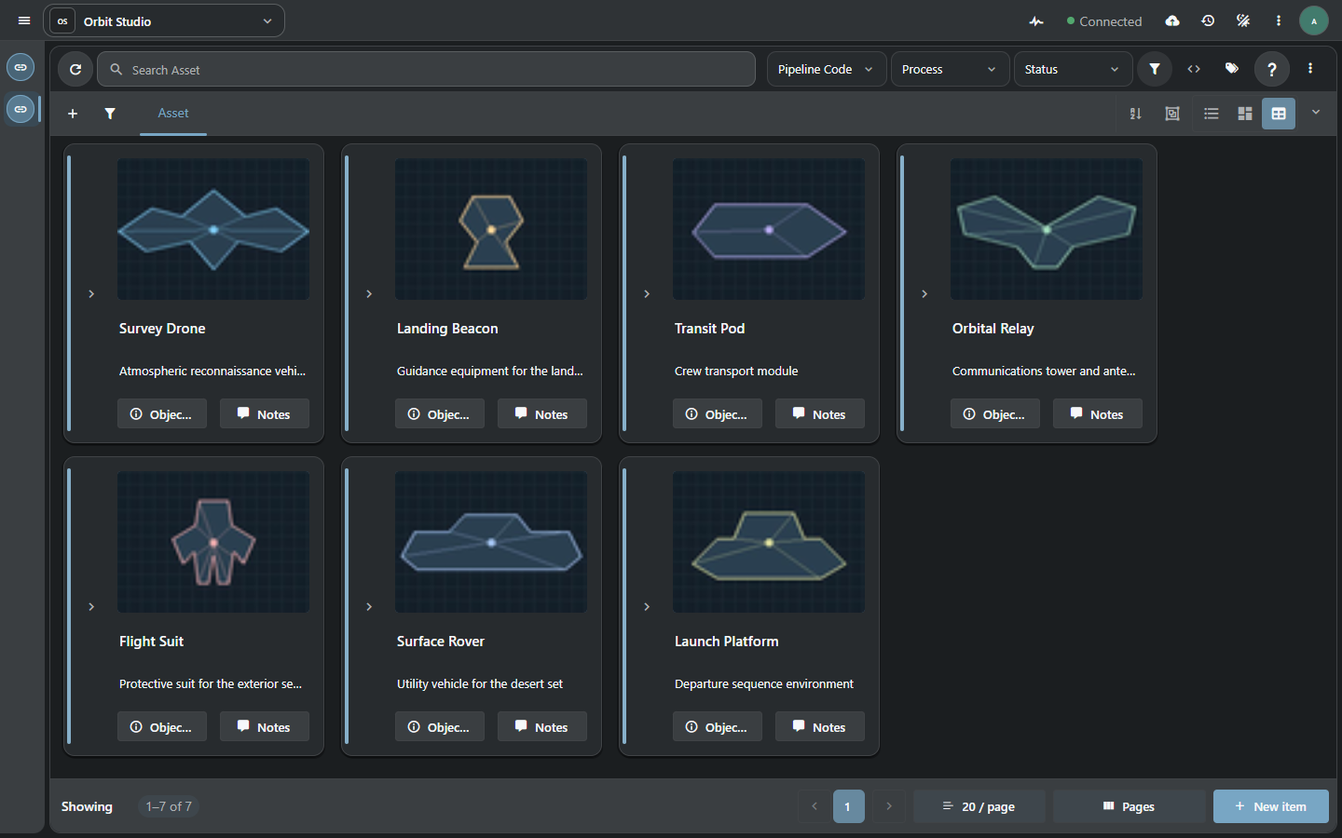
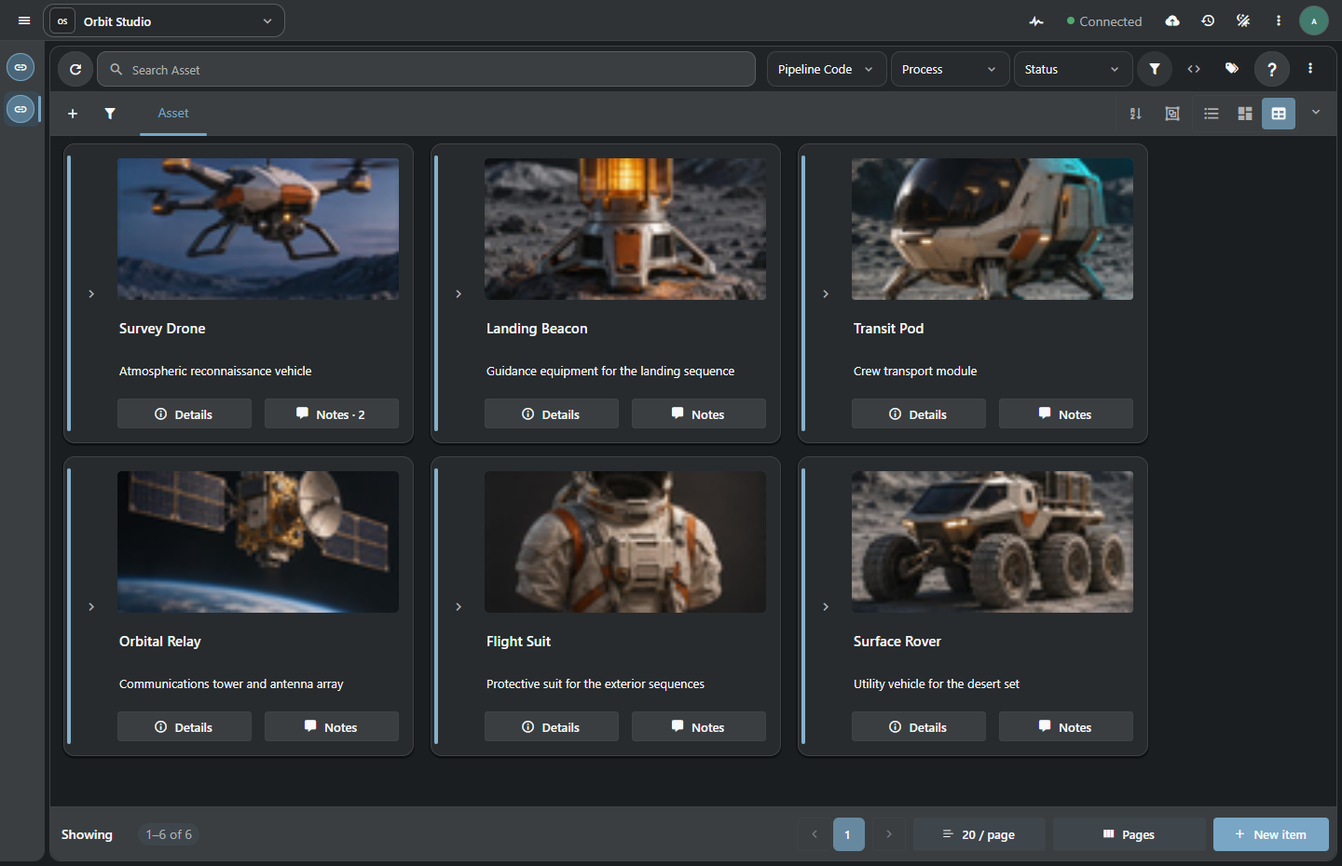
Show the Stream production workspace and deployment model

diff --git a/README.ru.md b/README.ru.md
@@ -1,44 +1,59 @@
 # TACTIC Stream
 
-[English](README.md) · **Русский** · [Документация](tactic_stream/docs/index.md)
+**Сервер TACTIC и веб-пространство для производства ассетов и шотов.** Опишите данные проекта, соберите представления для команды и ведите задачи, ревью и публикации на одних и тех же серверных записях.
 
-**Сервер TACTIC для самостоятельного развёртывания и рабочее пространство в браузере.**
-Создавайте Item View для ассетов, шотов и других записей проекта. Ведите задачи
-и публикации, настраивайте схемы, пайплайны и права в веб-интерфейсе на Vue
-с ядром TACTIC на Python.
+[English](README.md) · [Локальный запуск](#локальный-запуск) · [Развёртывание](#развёртывание-и-восстановление) · [API сервера](#api-сервера) · [Документация](tactic_stream/docs/index.md)
 
-Stream использует SQLite для локального запуска и PostgreSQL для серверного
-развёртывания. Отдельный настольный клиент **TACTIC-Handler** может подключаться
-к Stream для работы с локальными файлами и Maya.
+![Настроенный Item View в TACTIC Stream с шестью ассетами и превью проекта Orbit Studio](tactic_stream/docs/assets/github-item-view.png)
 
-> **Прототип в разработке.** Perforce-like workspace и просмотр его данных
-> в браузере — отдельный незавершённый прототип.
+*Orbit Studio в браузере. В каждом Item View превью, название, описание и действия привязаны к данным ассета.*
 
-![Настроенный Item View проекта Orbit Studio в TACTIC Stream](tactic_stream/docs/assets/github-item-view.png)
+> **Прототип в разработке.** Начните с изолированного проекта. Perforce-like workspace и его инструменты просмотра в браузере — отдельный прототип.
 
-## Item View
+## От модели проекта к рабочему пространству
 
-Создавайте именованные раскладки карточек и строк для каждого Search Type.
-Размещайте превью, поля объекта и действия для открытия деталей или заметок.
-Проверьте раскладку на данных проекта, сохраните её как представление
-и переиспользуйте в блоках дашборда.
-[Руководство по раскладкам объектов](tactic_stream/frontend/public/help/item_layouts.ru.md) · [Скриншот таблицы](tactic_stream/docs/assets/github-workspace.png)
+**Search Type** определяет записи, схема — их связи, а пайплайны и процессы — работу над ними. На этой модели строятся представления для художников, координаторов и администраторов. Идентификаторы, права и правила публикации хранит сервер.
 
-## Возможности
+### Соберите Item View
 
-- **Ведение проектов.** Поиск объектов, планирование задач, заметки и просмотр
-  снапшотов в браузере.
-- **Администрирование.** Типы объектов, пайплайны, раскладки, права доступа
-  и ресурсы проектов.
-- **Публикация и файлы.** Серверные операции с публикациями и репозиториями.
-  Просмотр депо и списков изменений входит в Perforce-like прототип.
-- **Интеграции.** Справка API работающего сервера и модель проектов, SearchType,
-  SObject и команд TACTIC.
+Откройте **Администрирование → Раскладки объектов**. Выберите Search Type и соберите именованную карточку или строку. Привяжите превью и поля к данным записи, добавьте действия и проверьте раскладку на объектах проекта. Сохранённый вид можно переиспользовать в блоке дашборда.
 
-## Локальный запуск на Windows
+![Редактор раскладок объектов TACTIC Stream со списком элементов, предпросмотром и свойствами](tactic_stream/docs/assets/github-layout-editor.png)
 
-Выполните команды из корня рабочей копии. Понадобятся Python 3.14 и чистый
-локальный каталог данных.
+*Редактор показывает черновик на реальных данных проекта. Сохранение публикует конфигурацию для выбранного Search Type.*
+
+[Руководство по Item Layouts](tactic_stream/frontend/public/help/item_layouts.ru.md) · [Табличный вид](tactic_stream/docs/assets/github-workspace.png)
+
+### Работайте с сохранённым представлением
+
+Карточка может вести к деталям объекта, его задачам, заметкам и связанным записям. Те же данные доступны в таблице для редактирования, на дашборде для координации и в менеджере задач для планирования. Администратор определяет, какие представления появятся в навигации.
+
+![Детали ассета Survey Drone поверх настроенного Item View](tactic_stream/docs/assets/github-record.png)
+
+[Задачи и планирование](tactic_stream/frontend/public/help/tasks.ru.md) · [Администрирование](tactic_stream/frontend/public/help/administration.ru.md) · [Пример дашборда Workspace Pulse](examples/workspace_pulse/README.ru.md)
+
+### Публикуйте и проверяйте версии
+
+Загрузите файлы через браузерный check-in и проверьте снапшоты. Права, правила именования и репозиторий задаются проектом TACTIC. Для работы с локальными путями, синхронизацией файлов и Maya подключите к тому же серверу отдельный клиент **TACTIC-Handler**.
+
+[Snapshot Browser](tactic_stream/frontend/public/help/dock.snapshot.ru.md) · [Подключение Handler](tactic_stream/docs/delivery/HANDLER_DEPLOYMENT.md)
+
+## Как устроена система
+
+```mermaid
+flowchart LR
+    Web["Веб-клиент Vue"] <-->|HTTP API| Stream["TACTIC Stream"]
+    Handler["Настольный TACTIC-Handler"] <-->|TACTIC API| Stream
+    Stream <--> Core["TACTIC Search, SObject и команды"]
+    Core <--> Data["SQLite или PostgreSQL"]
+    Core <--> Files["Файловый репозиторий"]
+```
+
+Ядро Python сохраняет нативную модель `Search`, `SObject`, схем, пайплайнов и команд TACTIC. Браузер ведёт взаимодействие и черновики. Stream и Handler поставляются независимо и отображают общие описания **Tactic Frame** своими контролами Vue и Qt Quick. [Архитектура](tactic_stream/docs/architecture.md) · [Контракт Frame](tactic_stream/docs/frame/contract.md)
+
+## Локальный запуск
+
+Выполните команды из корня исходного репозитория на Windows. Для первого запуска используйте новый каталог данных и Python 3.14.
 
 ```powershell
 Set-Location tactic_stream
@@ -47,27 +62,42 @@ py -3.14 -m venv .venv
 ..\START_TACTIC_STREAM.bat
 ```
 
-При первом запуске программа инициализирует SQLite, предлагает задать пароль
-администратора и открывает настроенный локальный адрес. Готовый веб-интерфейс
-входит в комплект. [Подробности запуска и CLI](tactic_stream/README.md#local-development)
+При первом запуске скрипт инициализирует SQLite, предложит создать пароль администратора и откроет настроенный адрес. Веб-интерфейс уже собран в исходном дереве. [CLI и среда разработки](tactic_stream/README.md#local-development)
 
-Перед запуском новой версии с существующими данными сделайте резервную копию.
-Скрипт обновляет схему перед стартом сервера. [Резервное копирование и восстановление](tactic_stream/docs/delivery/RECOVERY_ACCEPTANCE.md)
+## Развёртывание и восстановление
 
-## Развёртывание и документация
+| Режим | Состав | Как запустить |
+| --- | --- | --- |
+| Локально из исходников | Python, собранный веб-интерфейс, SQLite | [Настройка среды](tactic_stream/README.md#local-development) |
+| Портативная Windows-сборка | Десктопный лаунчер, Python и веб-клиент, SQLite и Handler | [Поставка для Windows](tactic_stream/docs/delivery/WINDOWS_DELIVERY.ru.md) |
+| Отдельный Linux-сервер | Stream за Apache, PostgreSQL и Docker Compose | [Серверная поставка](tactic_stream/docs/delivery/SERVER_DELIVERY.ru.md) |
 
-| Задача | Где начать |
+Перед обновлением сохраните вместе базу, файловый репозиторий и конфигурацию. Для отката нужны прежняя сборка и соответствующая копия данных. [Резервное копирование и восстановление](tactic_stream/docs/delivery/RECOVERY_ACCEPTANCE.md)
+
+## API сервера
+
+На запущенном сервере `/api/documentation` описывает методы, а `/api/compatibility` — границы совместимости с оригинальным TACTIC. Встроенный клиент Python выполняет запросы через XML-RPC. Пример ниже читает записи демопроекта и запрашивает пароль локально.
+
+```python
+from getpass import getpass
+from tactic_client_lib import TacticServerStub
+
+server = TacticServerStub(setup=False, protocol="xmlrpc")
+server.set_server("http://127.0.0.1:8081")
+server.set_project("orbit")
+server.set_ticket(server.get_ticket(input("Login: "), getpass("Password: ")))
+
+for asset in server.query("orbit/asset", columns=["code", "name"], limit=12):
+    print(asset["code"], asset["name"])
+```
+
+Укажите адрес сервера, проект и Search Type вашей установки. Проверяйте сценарии на тех схемах и плагинах, с которыми собираетесь работать. [Карта серверного API](tactic_stream/docs/admin_agent/SOURCES.md#ts-server-api) · [Совместимость](tactic_stream/docs/compatibility.md) · [Модель данных](tactic_stream/frontend/public/help/core_model.ru.md)
+
+| Что дальше | Документация |
 | --- | --- |
-| Попробовать портативную сборку | [Поставка для Windows](tactic_stream/docs/delivery/WINDOWS_DELIVERY.ru.md) |
-| Запустить отдельный сервер PostgreSQL | [Серверная поставка с Docker Compose](tactic_stream/docs/delivery/SERVER_DELIVERY.ru.md) |
-| Обновить или восстановить установку | [Резервное копирование и восстановление](tactic_stream/docs/delivery/RECOVERY_ACCEPTANCE.md) |
-| Сделать интеграцию | [Карта API сервера](tactic_stream/docs/admin_agent/SOURCES.md#ts-server-api) · [Совместимость](tactic_stream/docs/compatibility.md) |
-| Посмотреть примеры плагинов | [Workspace Pulse](examples/workspace_pulse/README.ru.md) · [Studio Review](examples/studio_review/README.ru.md) |
-| Работать с исходным кодом | [Среда разработки](tactic_stream/README.md) · [Архитектура](tactic_stream/docs/architecture.md) |
-
-Проверяйте совместимость со схемами, плагинами и
-сценариями вашей установки. Работающий сервер публикует справку по адресам
-`/api/documentation` и `/api/compatibility`.
+| Создать раскладку, дашборд или расширение | [Item Layouts](tactic_stream/frontend/public/help/item_layouts.ru.md) · [Workspace Pulse](examples/workspace_pulse/README.ru.md) · [Studio Review](examples/studio_review/README.ru.md) |
+| Разрабатывать сервер или веб-клиент | [README приложения](tactic_stream/README.md) · [Архитектура](tactic_stream/docs/architecture.md) |
+| Проверить развёртывание | [Документация поставки](tactic_stream/docs/delivery/index.md) · [Приёмка восстановления](tactic_stream/docs/delivery/RECOVERY_ACCEPTANCE.md) |
 
 ## Лицензионные уведомления
 

diff --git a/README.md b/README.md
@@ -1,41 +1,59 @@
 # TACTIC Stream
 
-**English** · [Русский](README.ru.md) · [Documentation](tactic_stream/docs/index.md)
+**Self-hosted TACTIC server and web workspace for asset and shot production.** Define what a project tracks, design how each record appears, and run tasks, review, and publishing against the same server-owned records.
 
-**Self-hosted TACTIC server and browser workspace.** Build Item Views for
-assets, shots, and other project records. Track tasks and publications and
-configure project schemas, pipelines, and access rules from the Vue interface.
+[Русский](README.ru.md) · [Run locally](#run-locally) · [Server deployment](#deployment-and-recovery) · [Server API](#server-api) · [Documentation](tactic_stream/docs/index.md)
 
-Stream uses SQLite for local installations and PostgreSQL for server deployments.
-**TACTIC-Handler** is a separate native client that can connect to Stream for
-desktop file and Maya workflows.
+![TACTIC Stream showing a configured Item View with six Orbit Studio assets and published previews](tactic_stream/docs/assets/github-item-view.png)
 
-> **Development prototype.** The Perforce-like file workspace and its browser
-> inspection tools are an unfinished prototype.
+*Orbit Studio in the browser. A configured Item View binds an image, a title, a description, and record actions to each asset.*
 
-![TACTIC Stream showing a configured Item View for the Orbit Studio demo](tactic_stream/docs/assets/github-item-view.png)
+> **Development prototype.** Start with an isolated project. The Perforce-like file workspace and its browser inspection tools are a separate prototype.
 
-## Item View
+## From production model to workspace
 
-Create a named card or row layout for a Search Type. Arrange previews, record
-fields, and actions such as opening details or notes. Check the layout against
-project data, then save it as a view. Reuse named item layouts in dashboard
-blocks. [Item Layouts guide](tactic_stream/frontend/public/help/item_layouts.en.md) · [Table view screenshot](tactic_stream/docs/assets/github-workspace.png)
+A project defines its records through **Search Types**, relationships through its schema, and work through pipelines and processes. Build the views that artists and coordinators use on top of that model. The server continues to own record identity, access, and publishing rules.
 
-## What you can do
+### Design the Item View
 
-- **Track production.** Search project records, work with task schedules and
-  notes, and review snapshots in the browser.
-- **Configure projects.** Edit search types, pipelines, layouts, permissions,
-  and project resources through web administration.
-- **Manage published files.** Use server-backed publication and repository
-  workflows. Depot and changelist inspection belong to the Perforce-like prototype.
-- **Integrate tools.** Use live API discovery and the TACTIC project, SearchType,
-  SObject, and command model.
+Start in **Administration → Item layouts**. Choose a Search Type, build a named card or row, and bind each element to real record data. Place previews and fields in the layout, add actions, and check the result against project records before saving it. Reuse the saved layout in a dashboard item block.
 
-## Start locally on Windows
+![TACTIC Stream Item Layouts editor with element layers, live preview, and properties](tactic_stream/docs/assets/github-layout-editor.png)
 
-From the root of this checkout, use Python 3.14 and a fresh local data directory.
+*The editor works on a draft and shows a live preview. Saving publishes the configuration for the selected Search Type.*
+
+[Item Layouts guide](tactic_stream/frontend/public/help/item_layouts.en.md) · [Table view](tactic_stream/docs/assets/github-workspace.png)
+
+### Use the saved view with production data
+
+In the workspace, a card can lead to object details, tasks, notes, and linked records. Teams can use the same records in a table for editing, a dashboard for coordination, or a task workspace for scheduling. Project administrators configure which views and tools appear in navigation.
+
+![TACTIC Stream showing the Survey Drone object details over the configured asset workspace](tactic_stream/docs/assets/github-record.png)
+
+[Tasks and planning](tactic_stream/frontend/public/help/tasks.en.md) · [Administration](tactic_stream/frontend/public/help/administration.en.md) · [Example dashboard plugin](examples/workspace_pulse/README.md)
+
+### Publish and review
+
+Upload through the web check-in workflow and review the resulting snapshots and files. TACTIC applies project permissions, naming, and repository configuration. For local repository mappings, desktop file operations, and Maya, connect the independent **TACTIC-Handler** client to the same server.
+
+[Snapshot Browser](tactic_stream/frontend/public/help/dock.snapshot.en.md) · [Handler connection](tactic_stream/docs/delivery/HANDLER_DEPLOYMENT.md)
+
+## How the pieces fit
+
+```mermaid
+flowchart LR
+    Web["Vue browser workspace"] <-->|HTTP API| Stream["TACTIC Stream"]
+    Handler["TACTIC-Handler desktop"] <-->|TACTIC client API| Stream
+    Stream <--> Core["TACTIC Search, SObject and commands"]
+    Core <--> Data["SQLite or PostgreSQL"]
+    Core <--> Files["File repository"]
+```
+
+The Python core retains native `Search`, `SObject`, schema, pipeline, and command semantics. The browser owns interaction and drafts. Stream and Handler each ship their own build and render applicable **Tactic Frame** descriptions with Vue and Qt Quick controls. [Architecture](tactic_stream/docs/architecture.md) · [Frame contract](tactic_stream/docs/frame/contract.md)
+
+## Run locally
+
+From the source checkout on Windows, create a Python 3.14 environment. Use a fresh data directory for a first run.
 
 ```powershell
 Set-Location tactic_stream
@@ -44,27 +62,42 @@ py -3.14 -m venv .venv
 ..\START_TACTIC_STREAM.bat
 ```
 
-The launcher initializes SQLite when needed, prompts for a new administrator
-password on first setup, and opens the configured local web address. The bundled
-web UI runs with Python alone. [Local development and CLI](tactic_stream/README.md#local-development)
+The launcher initializes SQLite when needed, asks for an administrator password on first setup, and opens the configured address. The source tree includes the built web client. [CLI and development setup](tactic_stream/README.md#local-development)
 
-Back up existing data before using the launcher with a newer checkout. It runs
-the schema upgrade before starting the server. [Backup and recovery](tactic_stream/docs/delivery/RECOVERY_ACCEPTANCE.md)
+## Deployment and recovery
 
-## Deployment and documentation
+| Mode | What it runs | Setup |
+| --- | --- | --- |
+| Local source | Python monitor, bundled web assets, SQLite | [Local development](tactic_stream/README.md#local-development) |
+| Portable Windows | Desktop launcher, bundled Python and web app, SQLite, optional native Handler workflow | [Windows package guide](tactic_stream/docs/delivery/WINDOWS_DELIVERY.en.md) |
+| Dedicated Linux server | Stream behind Apache with PostgreSQL, delivered with Docker Compose | [Server package guide](tactic_stream/docs/delivery/SERVER_DELIVERY.en.md) |
 
-| I want to | Start here |
+Back up the database, repository, and configuration together before upgrading. Rolling back requires the older application and its matching data backup. [Backup and recovery](tactic_stream/docs/delivery/RECOVERY_ACCEPTANCE.md)
+
+## Server API
+
+On a running instance, `/api/documentation` lists methods and `/api/compatibility` describes the original TACTIC contract. The bundled Python client can query the server through XML-RPC. This example uses the demo project and prompts for credentials locally.
+
+```python
+from getpass import getpass
+from tactic_client_lib import TacticServerStub
+
+server = TacticServerStub(setup=False, protocol="xmlrpc")
+server.set_server("http://127.0.0.1:8081")
+server.set_project("orbit")
+server.set_ticket(server.get_ticket(input("Login: "), getpass("Password: ")))
+
+for asset in server.query("orbit/asset", columns=["code", "name"], limit=12):
+    print(asset["code"], asset["name"])
+```
+
+Use the actual server address, project, and Search Type from your installation. Validate workflows with the plugins and schema you intend to use. [API source map](tactic_stream/docs/admin_agent/SOURCES.md#ts-server-api) · [Compatibility scope](tactic_stream/docs/compatibility.md) · [Core data model](tactic_stream/frontend/public/help/core_model.en.md)
+
+| Explore further | Reference |
 | --- | --- |
-| Try the portable desktop bundle | [Windows delivery](tactic_stream/docs/delivery/WINDOWS_DELIVERY.en.md) |
-| Run a dedicated PostgreSQL server | [Server delivery with Docker Compose](tactic_stream/docs/delivery/SERVER_DELIVERY.en.md) |
-| Upgrade or restore an installation | [Backup and recovery](tactic_stream/docs/delivery/RECOVERY_ACCEPTANCE.md) |
-| Build an integration | [Server API source map](tactic_stream/docs/admin_agent/SOURCES.md#ts-server-api) · [Compatibility](tactic_stream/docs/compatibility.md) |
-| Explore example plugins | [Workspace Pulse](examples/workspace_pulse/README.md) · [Studio Review](examples/studio_review/README.md) |
-| Work on the code | [Application setup](tactic_stream/README.md) · [Architecture](tactic_stream/docs/architecture.md) |
-
-Validate compatibility with the schemas, plugins, and workflows your deployment
-uses. The running server provides
-API discovery at `/api/documentation` and `/api/compatibility`.
+| Build layouts, dashboards, or extensions | [Item Layouts](tactic_stream/frontend/public/help/item_layouts.en.md) · [Workspace Pulse](examples/workspace_pulse/README.md) · [Studio Review](examples/studio_review/README.md) |
+| Develop the server or web UI | [Application README](tactic_stream/README.md) · [Architecture](tactic_stream/docs/architecture.md) |
+| Verify a deployment | [Delivery index](tactic_stream/docs/delivery/index.md) · [Recovery acceptance](tactic_stream/docs/delivery/RECOVERY_ACCEPTANCE.md) |
 
 ## License notices
 

diff --git a/tactic_stream/README.md b/tactic_stream/README.md
@@ -1,4 +1,7 @@
-# TACTIC Stream
+# TACTIC Stream development
+
+For the product walkthrough, current screenshots, and deployment choices, see
+the [repository README](../README.md) or its [Russian edition](../README.ru.md).
 
 TACTIC Stream is a Python 3.14+ TACTIC server with a Vue web client. The Python
 package and CLI are `tactic-stream`; the source namespace is `tactic_stream`.
